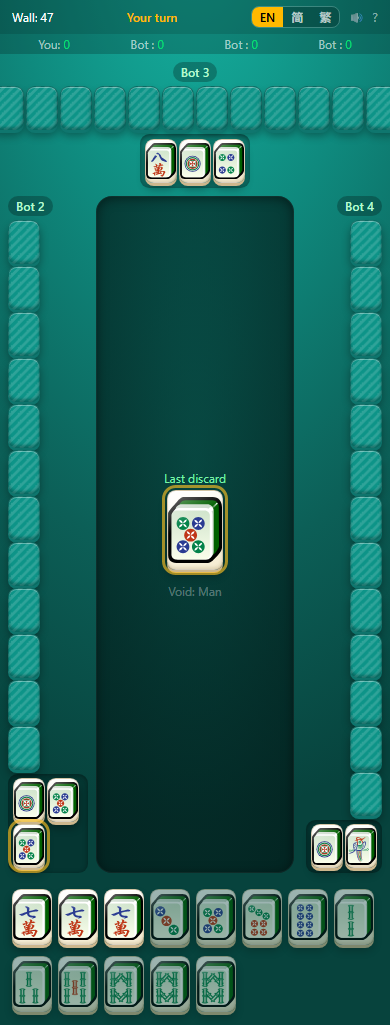
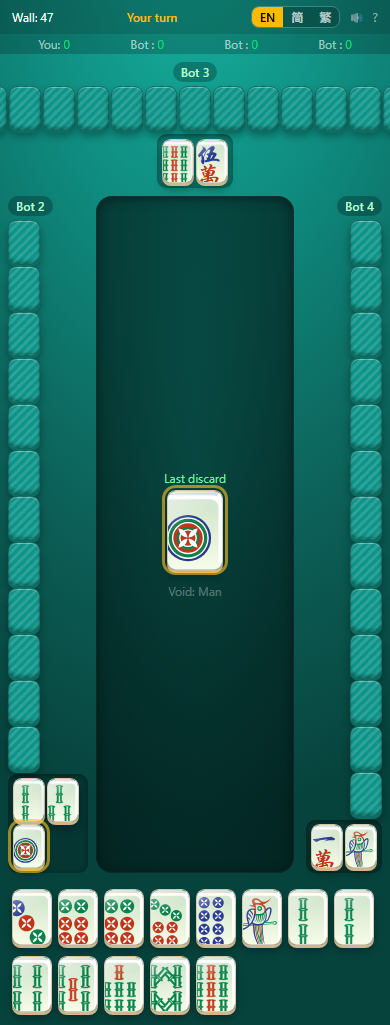
Tiles: crop SVG border to expose the face graphic; green lip on turned-over tiles

Changed region(s): [[0.0308, 0.7493, 0.9846, 0.999], [0.0, 0.0624, 1.0, 0.1873], [0.4308, 0.4683, 0.5846, 0.562]]

diff --git a/packages/client/src/index.css b/packages/client/src/index.css
@@ -33,6 +33,16 @@ body {
   transition: box-shadow 0.15s ease, filter 0.15s ease;
 }
 
+/* Face graphic. The source SVGs each draw their OWN bordered tile inside the
+   viewBox, so we scale up + cover-crop to push that border past the rounded clip
+   and expose just the symbol on our tile face (no "tile within a tile"). */
+.tile-face {
+  width: 100%;
+  height: 100%;
+  object-fit: cover;
+  transform: scale(1.34);
+}
+
 /* Glassy diagonal highlight */
 .tile::after {
   content: "";
@@ -68,10 +78,12 @@ body {
     );
   background-size: 0.55rem 0.55rem;
   cursor: default;
+  /* Lip (the 3D bottom edge) is a darker shade of the SAME green as the back
+     face, so a turned-over tile reads as one solid green piece. */
   box-shadow:
     inset 0 1px 0 rgba(255, 255, 255, 0.35),
     inset 0 -2px 3px rgba(0, 0, 0, 0.28),
-    0 3px 0 #0f766e,
+    0 3px 0 #0a6e63,
     0 6px 9px rgba(0, 0, 0, 0.33);
 }
 .tile-back::after { content: none; }

diff --git a/packages/client/src/components/Tile.tsx b/packages/client/src/components/Tile.tsx
@@ -49,7 +49,7 @@ export function Tile({ id, selected = false, lastDiscard = false, onClick, size 
         onPointerUp={() => { longPress.onPointerUp(); setPreview(false); }}
         onClick={onClick ? () => { if (!longPress.pointerHandledRef.current) onClick(id); } : undefined}
       >
-        <img src={src} alt={`${suit}-${rank}`} className="w-full h-full object-contain" draggable={false} />
+        <img src={src} alt={`${suit}-${rank}`} className="tile-face" draggable={false} />
       </motion.div>
 
       {/* Long-press 2× preview */}
@@ -68,7 +68,7 @@ export function Tile({ id, selected = false, lastDiscard = false, onClick, size 
               exit={{ scale: 0.5 }}
               className={`tile overflow-hidden ${SIZE_CLASSES.xl}`}
             >
-              <img src={src} alt={`${suit}-${rank}`} className="w-full h-full object-contain" draggable={false} />
+              <img src={src} alt={`${suit}-${rank}`} className="tile-face" draggable={false} />
             </motion.div>
           </motion.div>
         )}